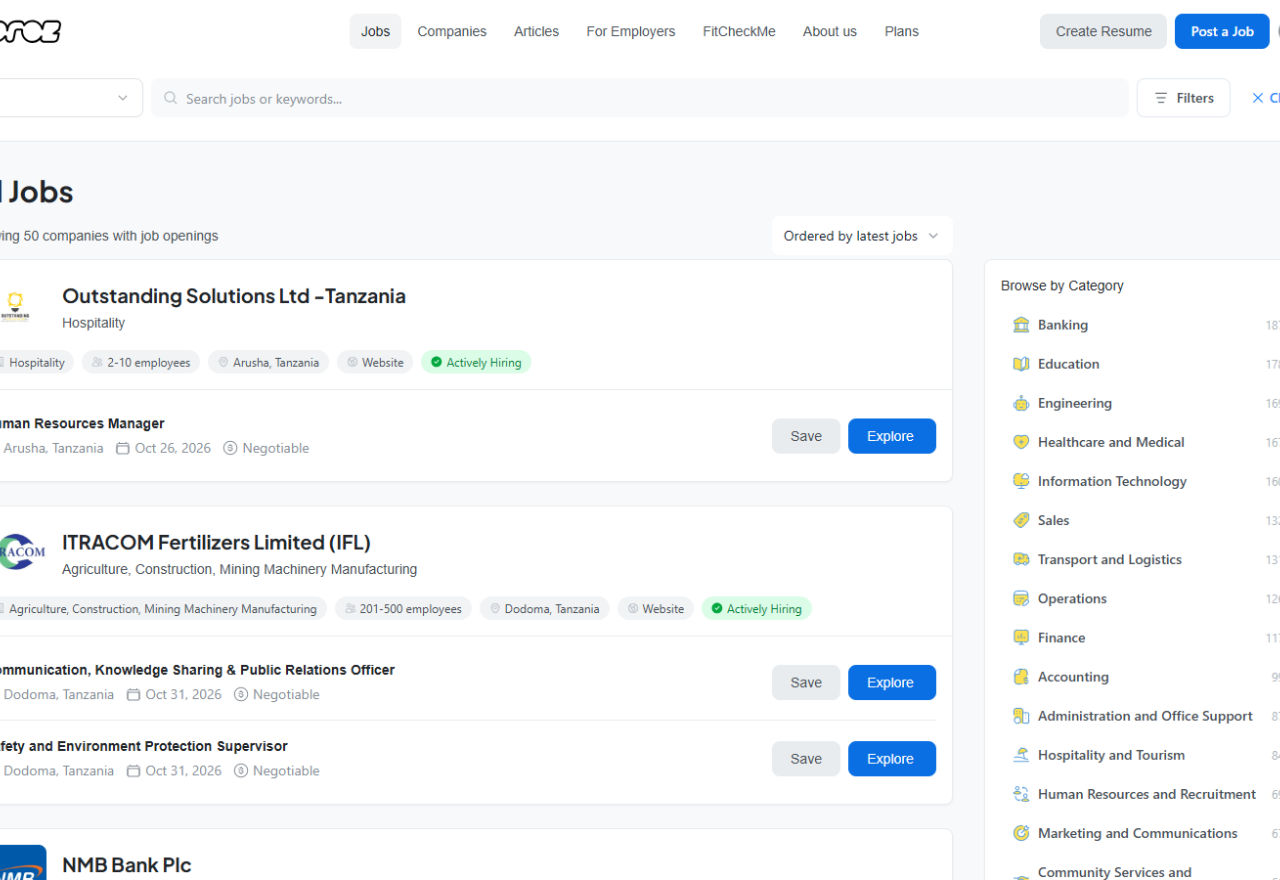
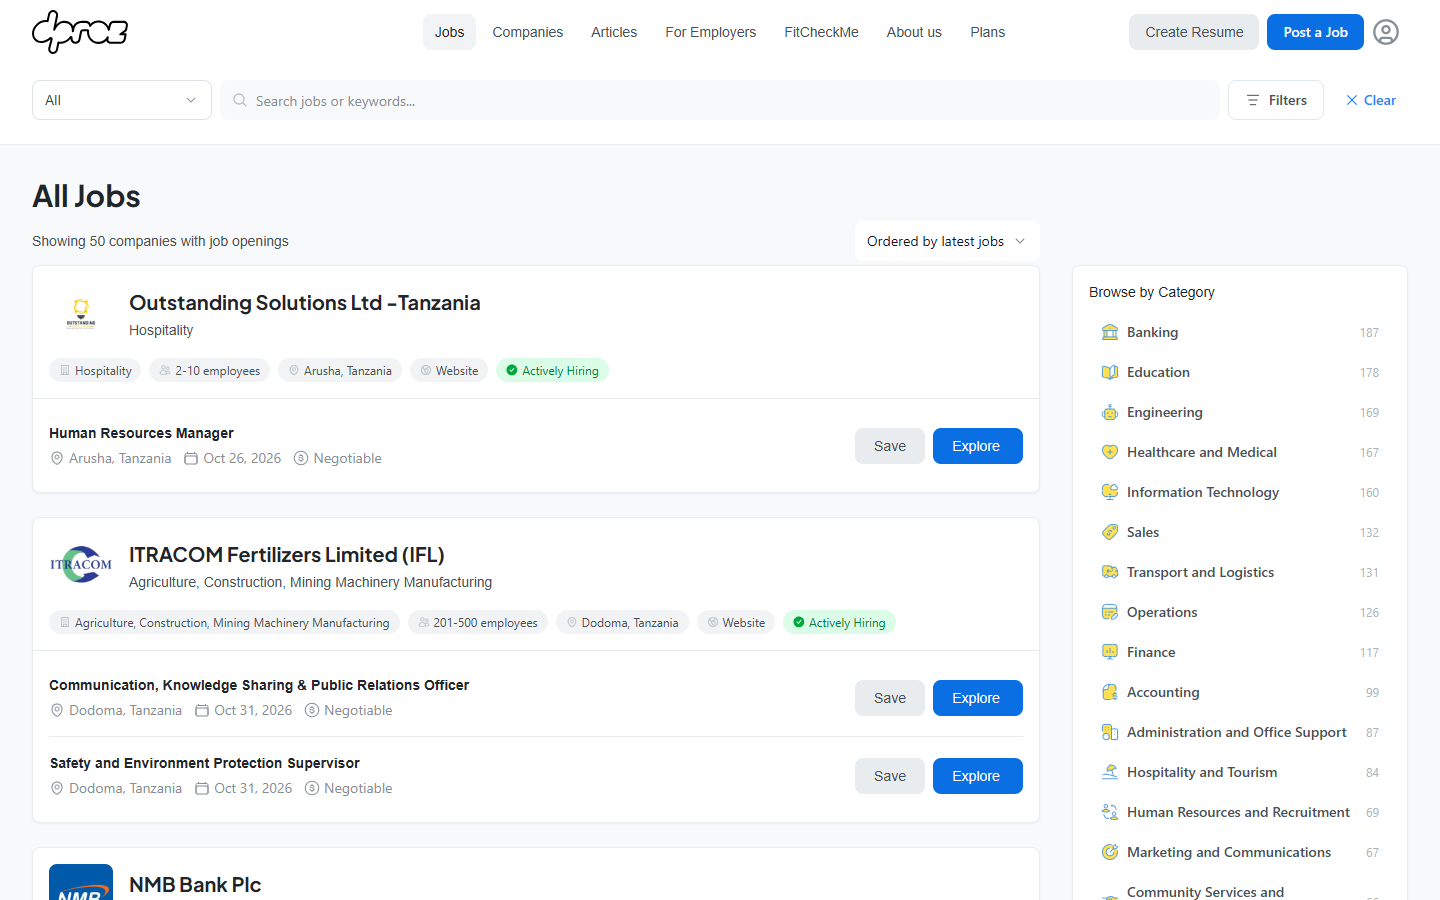
Update the jobs desktop image

diff --git a/src/data/caseStudies/dproz.tsx b/src/data/caseStudies/dproz.tsx
@@ -121,7 +121,7 @@ const dprozCaseStudy: CaseStudy = {
           src={jobsDesktop}
           alt="Dproz jobs page listing companies that are hiring, with jobs grouped by category"
           shadow="shadow-chapter-window"
-          className="absolute top-[9.9%] left-[8.47%] w-[90.4%]"
+          className="absolute top-1/2 left-1/2 w-[90.4%] -translate-x-1/2 -translate-y-1/2"
         />
       ),
     },
